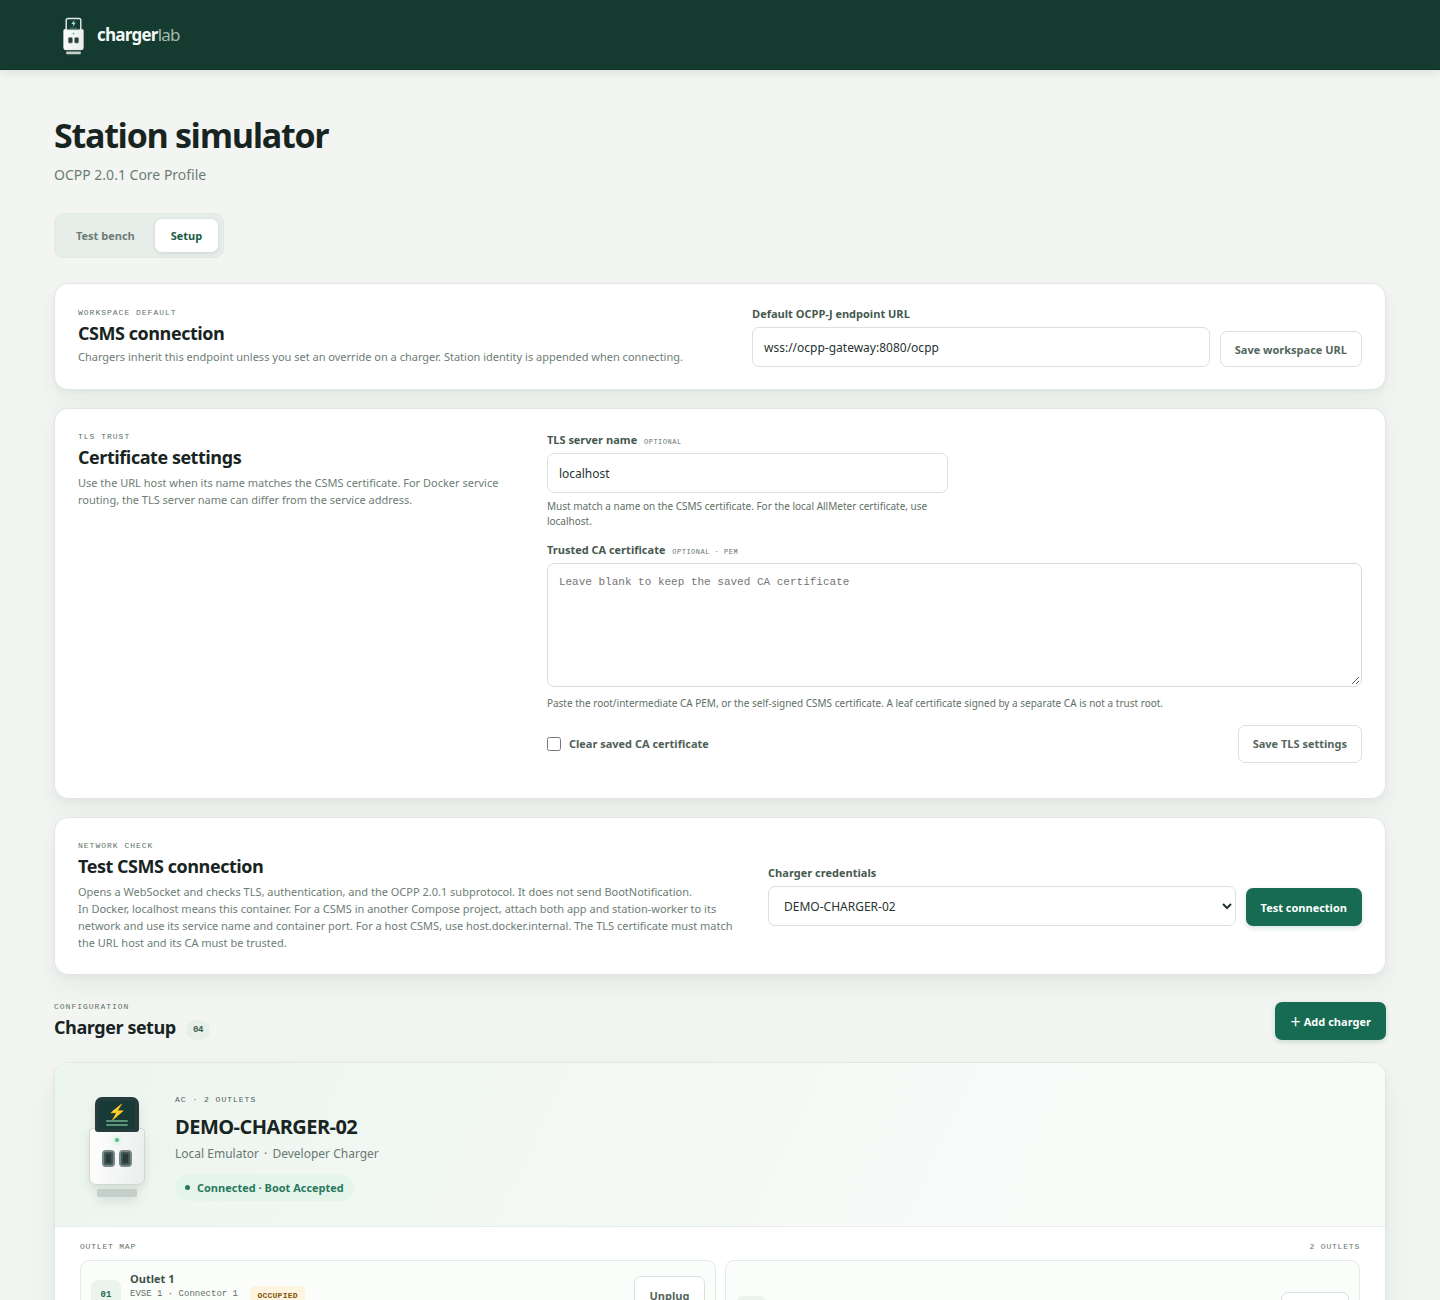
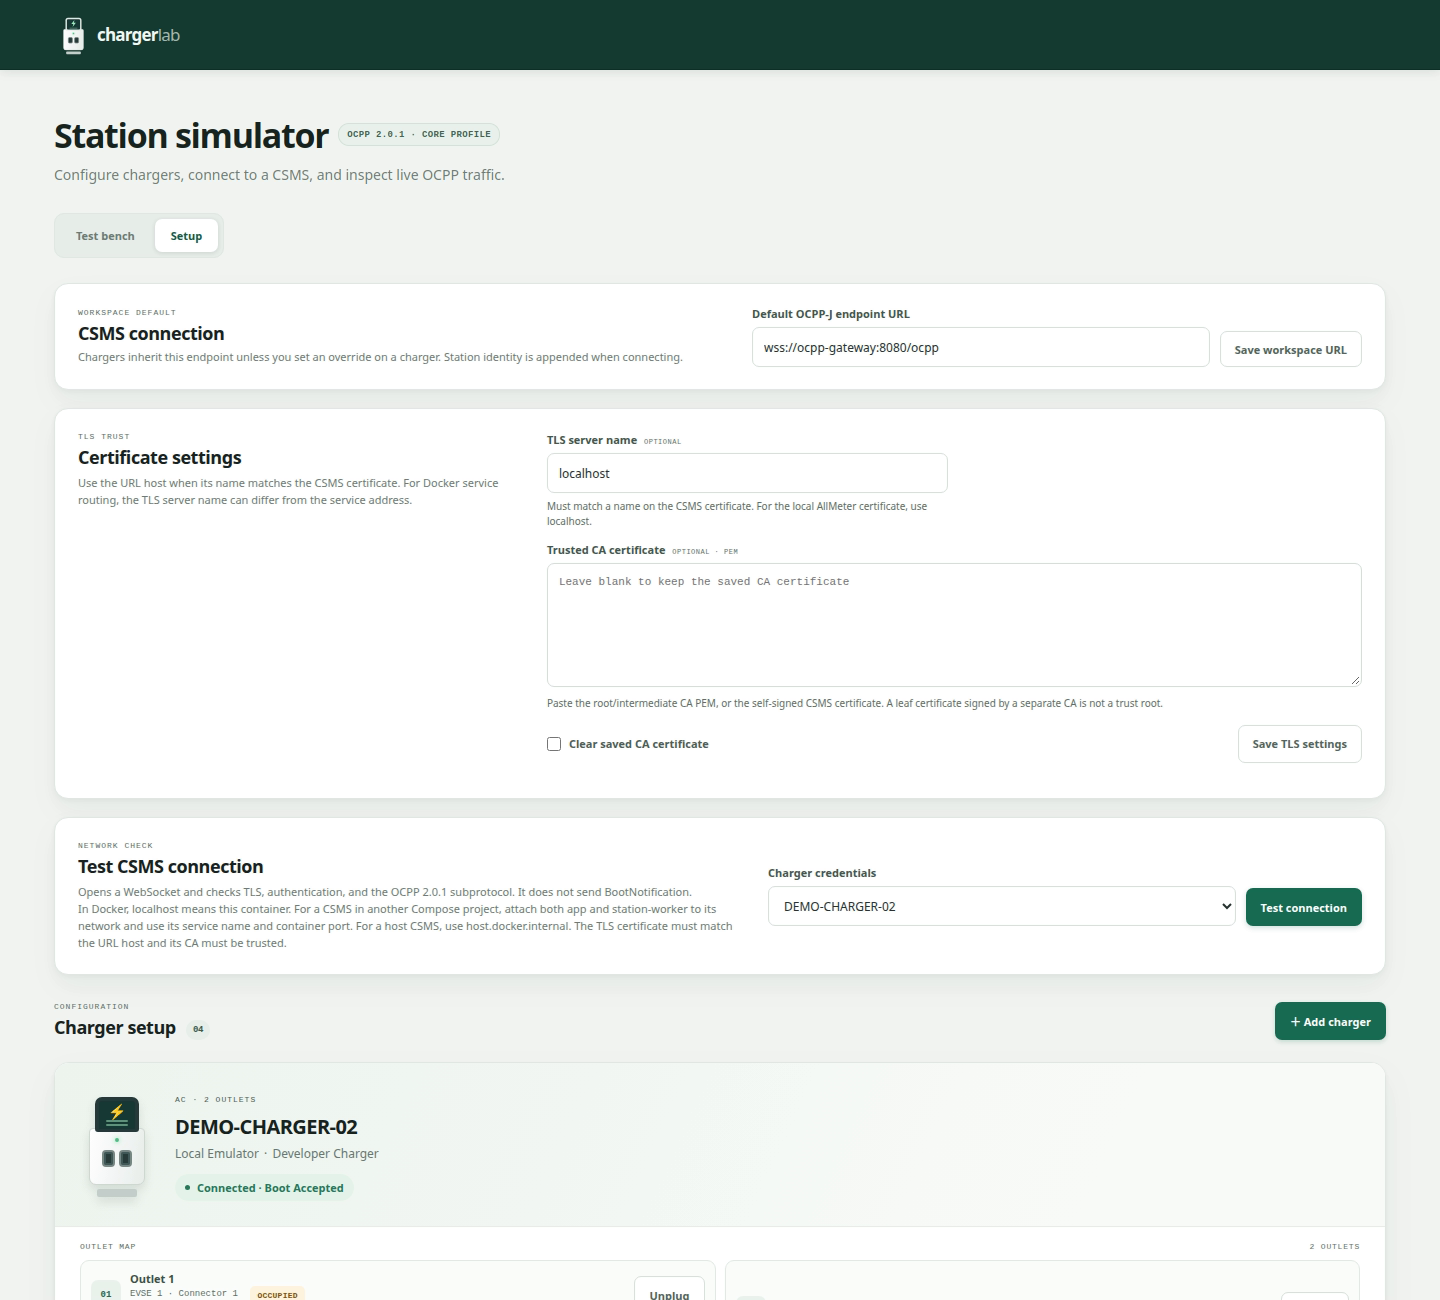
Refresh simulator UI and README screenshots

diff --git a/public/index.html b/public/index.html
@@ -35,7 +35,10 @@
 </header>
 <main class="page-shell">
     <section class="page-heading">
-        <div><h1>Station simulator</h1><p class="subtitle">OCPP 2.0.1 Core Profile</p></div>
+        <div>
+            <div class="page-title-row"><h1>Station simulator</h1><span class="version-pill">OCPP 2.0.1 · CORE PROFILE</span></div>
+            <p class="subtitle">Configure chargers, connect to a CSMS, and inspect live OCPP traffic.</p>
+        </div>
     </section>
     <div id="notice" class="notice" role="status" hidden></div>
     <nav id="screen-navigation" class="screen-navigation" aria-label="Workspace screens">
@@ -71,7 +74,6 @@
     </section>
     <section id="testing-screen" class="screen-panel">
         <section class="station-column">
-            <div class="section-heading"><div><h2>Charging stations <span data-role="test-bench-charger-count" class="count-pill">00</span></h2></div></div>
             <div id="test-bench-charger-list" class="charger-list-slot"></div>
         </section>
     </section>

diff --git a/public/style.css b/public/style.css
@@ -48,6 +48,9 @@ body {
 .page-heading { display: flex; justify-content: space-between; align-items: flex-end; margin-bottom: 29px; }
 h1, h2, h3, p { margin-top: 0; }
 h1 { margin-bottom: 7px; font: 720 34px var(--display); letter-spacing: -1.3px; }
+.page-title-row { display: flex; align-items: center; flex-wrap: wrap; gap: 10px; margin-bottom: 7px; }
+.page-title-row h1 { margin-bottom: 0; }
+.version-pill { padding: 5px 8px; border: 1px solid #d5e3da; border-radius: 999px; background: #eaf2ed; color: #426452; font: 600 9px var(--mono); letter-spacing: .35px; }
 .subtitle { margin-bottom: 0; color: var(--muted); font-size: 14px; }
 .notice { display: flex; align-items: center; gap: 10px; padding: 12px 15px; margin: -12px 0 24px; border: 1px solid #cce3d7; border-radius: 9px; background: #edf7f1; color: #286b55; font-size: 12px; box-shadow: 0 3px 10px rgb(24 48 40 / 4%); }
 .notice-error { border-color: #f0cfcc; background: #fff5f4; color: #94433e; }

diff --git a/public/app.js b/public/app.js
@@ -433,7 +433,6 @@ function renderState(state, preserveFormInput = false) {
     reconcileChildren(chargerList, workspaces);
     restoreLogScrollPositions(logScrollPositions);
     setTextContent(document.querySelector('#charger-count'), String(state.chargers.length).padStart(2, '0'));
-    setTextContent(document.querySelector('[data-role="test-bench-charger-count"]'), String(state.chargers.length).padStart(2, '0'));
     const chargerSelect = networkTestForm.elements.namedItem('network_test_charger_id');
     const selectedChargerId = chargerSelect.value;
     const existingOptions = new Map(Array.from(chargerSelect.options, (option) => [option.value, option]));

diff --git a/README.md b/README.md
@@ -2,7 +2,7 @@
 
 Charger Lab is a local OCPP 2.0.1 Charging Station emulator for developing and testing Charging Station Management Systems (CSMSs). It includes a browser test bench and a mock CSMS for trying the basic flow. It is not a physical charger, production service, or OCA-certified implementation.
 
-![Charger Lab test bench showing a connected station, outlet controls, RFID panel, and OCPP message log](docs/images/charger-lab-test-bench.png)
+![Station simulator with OCPP 2.0.1 badge, connected charger, outlet controls, RFID panel, and OCPP message log](docs/images/charger-lab-test-bench.webp)
 
 ## Install and run
 
